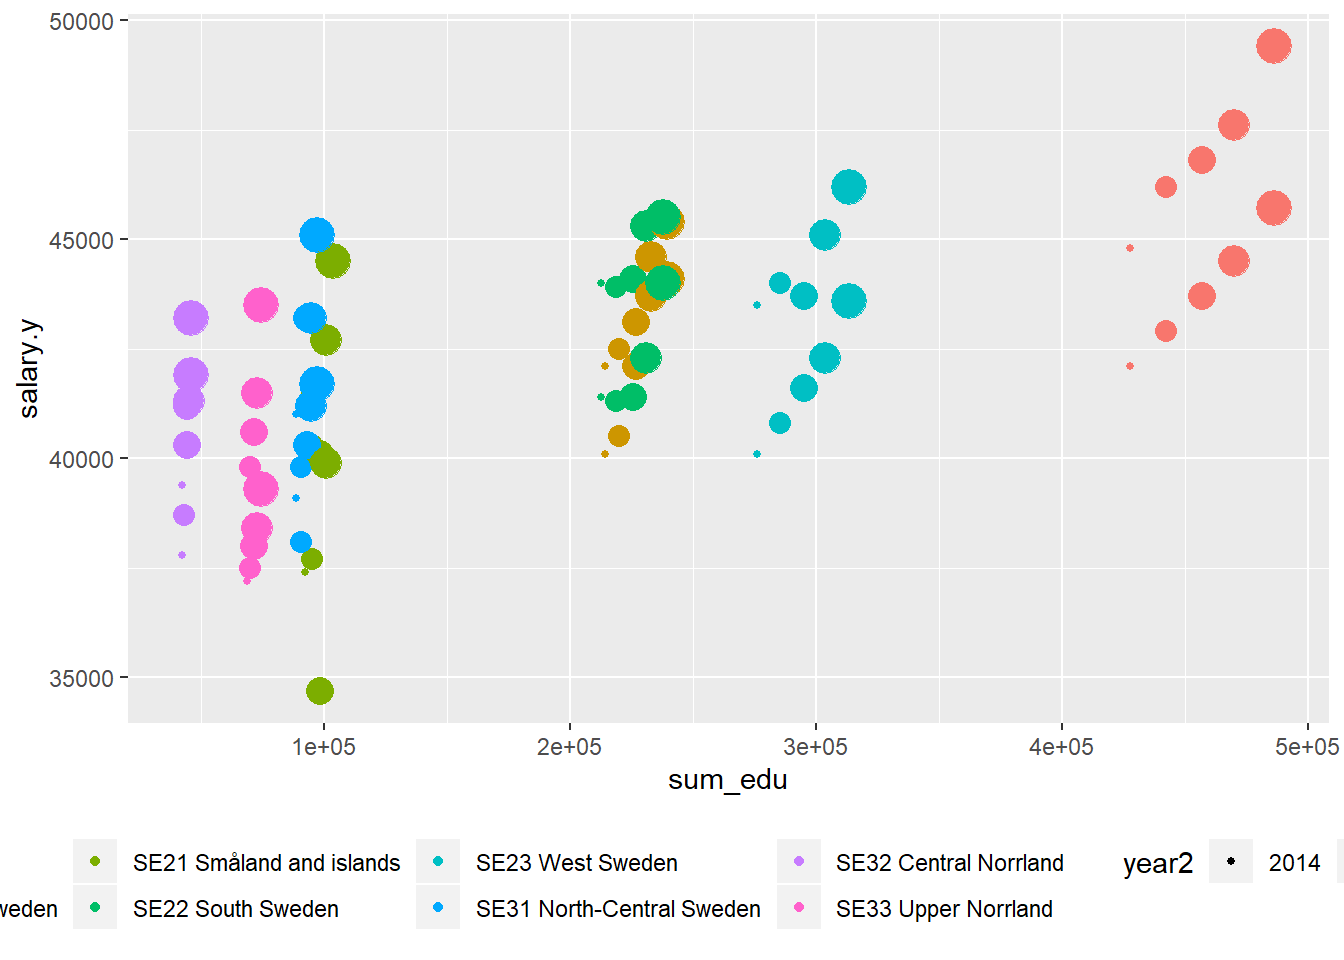
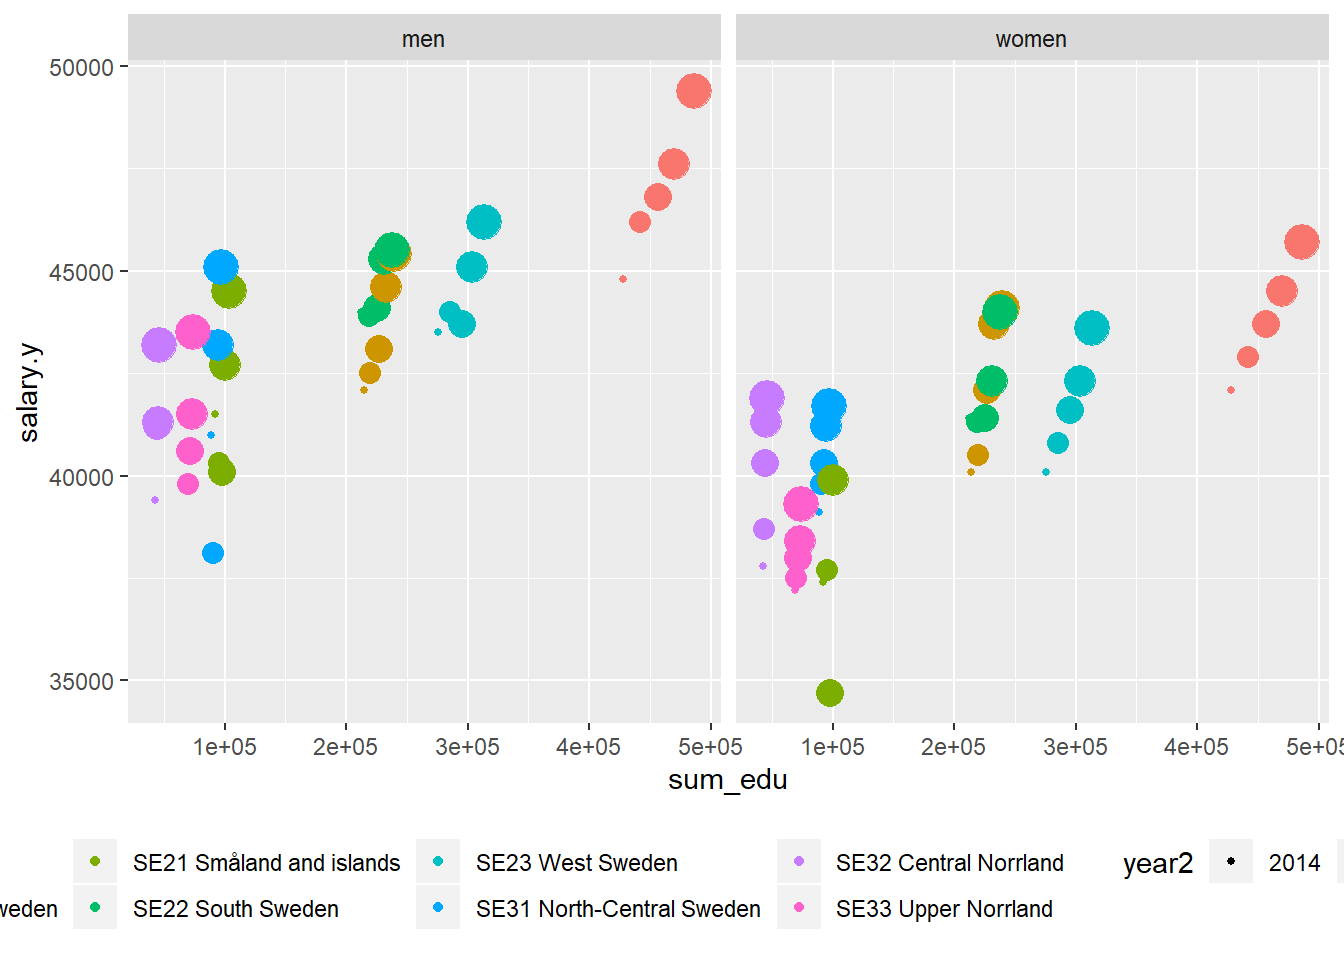
fixed diagram edu salary

diff --git a/docs/utbildningsniva.html b/docs/utbildningsniva.html
@@ -451,7 +451,8 @@ Figure 12.9: The correlation between the number of engineers and the number of t
 <a class="sourceLine" id="cb147-16" title="16"><span class="st">  </span><span class="kw">mutate</span> (<span class="dt">perc_eng =</span> sum_ing <span class="op">/</span><span class="st"> </span>sum_edu) <span class="op">%&gt;%</span></a>
 <a class="sourceLine" id="cb147-17" title="17"><span class="st">  </span><span class="kw">ggplot</span>(<span class="kw">aes</span>(<span class="dt">x =</span> sum_edu, <span class="dt">y =</span> salary.y, <span class="dt">colour =</span> region, <span class="dt">size =</span> year2)) <span class="op">+</span></a>
 <a class="sourceLine" id="cb147-18" title="18"><span class="st">  </span><span class="kw">geom_point</span>() <span class="op">+</span></a>
-<a class="sourceLine" id="cb147-19" title="19"><span class="st">  </span><span class="kw">theme</span>(<span class="dt">legend.position=</span><span class="st">&quot;bottom&quot;</span>)</a></code></pre></div>
+<a class="sourceLine" id="cb147-19" title="19"><span class="st">  </span><span class="kw">theme</span>(<span class="dt">legend.position=</span><span class="st">&quot;bottom&quot;</span>) <span class="op">+</span></a>
+<a class="sourceLine" id="cb147-20" title="20"><span class="st">  </span><span class="kw">facet_grid</span>(. <span class="op">~</span><span class="st"> </span>sex)</a></code></pre></div>
 <div class="figure"><span id="fig:utbildningsniva9"></span>
 <img src="SCB-Engineers-Jonkoping_files/figure-html/utbildningsniva9-1.png" alt="The correlation between the number of engineers and the number of the population who have 3 years or more post-secondary education, but not postgraduate education in the regions (NUTS2), Year 2014 - 2018." width="672" />
 <p class="caption">
